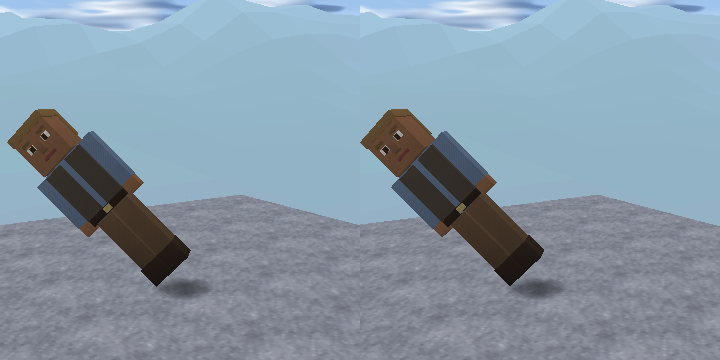
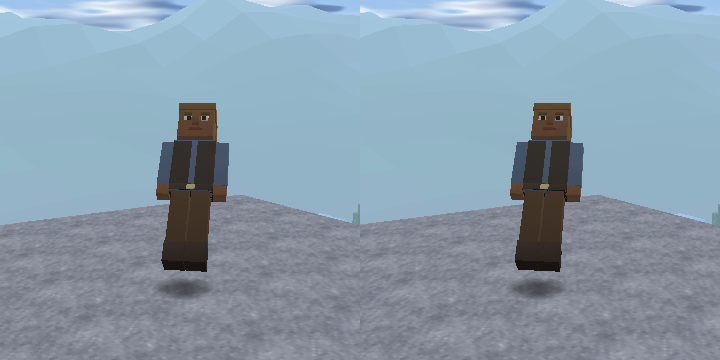
L1 wrap-up: golden before/after sheet, frame-cost table, L1 marked done (#37)
* Golden shots: forest, desert, snowy plains and taiga views at noon

Claude-Session: https://claude.ai/code/session_01YJGoYow1UijYySgLSrD9Pa

* Look upgrade: golden before/after sheet, lavapipe frame-cost table

Claude-Session: https://claude.ai/code/session_01YJGoYow1UijYySgLSrD9Pa

* Look upgrade evidence: the new death-fall portraits replace the old sideways ones

Claude-Session: https://claude.ai/code/session_01YJGoYow1UijYySgLSrD9Pa

---------

diff --git a/quest/src/headless/main.swift b/quest/src/headless/main.swift
@@ -288,6 +288,24 @@ if let path = renderPath, !path.isEmpty, let ctx = vkctx {
                 }
                 world.pendingMobs.removeAll()
             }
+            // Biomes (look upgrade, docs/status/look-upgrade.md): the middle of a forest, a desert, snowy plains and a
+            // taiga near spawn, at noon from a little above the ground, so the sky air, the trees and the ground of
+            // each read build to build. Spiral out in 64-block steps; the centre and four points 32 out must all match.
+            for (biome, yaw) in [("forest", Float(0.6)), ("desert", Float(2.2)), ("snowy_plains", Float(-0.9)), ("taiga", Float(3.6))] {
+                var x = 0, z = 0, dx = 0, dz = -1, found: V3?
+                for _ in 0..<6000 {
+                    let wx = Int(spawn.x) + x * 64, wz = Int(spawn.z) + z * 64
+                    if [(0, 0), (32, 0), (-32, 0), (0, 32), (0, -32)].allSatisfy({ world.gen.column(wx + $0.0, wz + $0.1).biome.name == biome }) {
+                        found = V3(Float(wx) + 0.5, 0, Float(wz) + 0.5); break
+                    }
+                    if x == z || (x < 0 && x == -z) || (x > 0 && x == 1 - z) { (dx, dz) = (-dz, dx) }
+                    x += dx; z += dz
+                }
+                guard var p = found else { print("golden: no \(biome) near spawn (biome_\(biome) skipped)"); continue }
+                _ = world.loadSync(center: p, radius: 2)
+                p.y = Float(world.topY(Int(floorf(p.x)), Int(floorf(p.z))) + 1) + 3
+                shots.append(("biome_\(biome)", p, 0.24, yaw, -0.12, false))
+            }
             // Boreal Station: the nearest one (BorealStation.views: yard from the air, the gate, a corridor, the hall, the stairs).
             if let s = world.gen.structures?.nearest(BorealStation.kind, x: Int(spawn.x), z: Int(spawn.z), maxRegions: 6) {
                 _ = world.loadSync(center: V3(Float(s.anchor.x), Float(s.anchor.y), Float(s.anchor.z - 32)), radius: 4)

diff --git a/docs/status/look-upgrade.md b/docs/status/look-upgrade.md
@@ -186,3 +186,40 @@ rocks it back, rest breathes (about 1 px); a dead cow slumps down; a killed zomb
 vertices, then goes in a puff and is gone; armour stands and boats keep still. Portraits: `--mob-shots DIR --mob-kinds
 zombie,cow,villager,sheep` adds `look` (head turned) and `fall` (mid-fall) shots: docs/status/evidence/look-upgrade/
 mob_{zombie,cow,villager,sheep}_{look,fall}.png.
+
+## General: golden shots and frame cost, before and after
+
+`questcheck --render X --render-only --golden DIR` now also stages three biomes at noon (the middle of a forest, a
+desert and a taiga near spawn; snowy plains when one is within about 2.5 km, none on the test seed). The "before" set is
+the same harness change cherry-picked onto the commit before the sky PR (#26), so both sides show identical views.
+Sheet: [golden_before_after.png](evidence/look-upgrade/golden_before_after.png) (spawn, dusk, night, rain, aerial,
+forest, desert, taiga, town; left eye, 32 px textures).
+
+Frame cost on lavapipe (a CPU rasteriser, so relative only; the headset numbers are lane M's device check):
+
+| shot | quads before | quads after | lavapipe ms before | after |
+|---|---|---|---|---|
+| spawn | 78 721 | 78 335 | 109 | 74 |
+| dusk | 34 771 | 34 771 | 88 | 57 |
+| night | 60 791 | 60 481 | 76 | 83 |
+| rain | 64 691 | 64 305 | 79 | 83 |
+| aerial | 43 256 | 43 336 | 80 | 70 |
+| forest | 89 577 | 91 123 | 89 | 86 |
+| desert | 41 285 | 41 392 | 55 | 56 |
+| taiga | 93 551 | 90 014 | 81 | 74 |
+| town | 56 811 | 56 739 | 119 | 105 |
+| capital city | 85 852 | 85 852 | 136 | 139 |
+| Boreal station | 180 540 | 177 603 | 165 | 154 |
+
+Geometry stays within 2 % (the new tree shapes trade a few logs for fuller crowns; the leaf fix is texture only), and
+lavapipe's frame times are within its own run-to-run noise (±15 ms on the same view). The cloud pass costs about 5 ms
+of a sky-filled 320x320 lavapipe frame (SkyTest prints it each run). No regression is measurable here; the headset
+frame-rate proof (docs/status device checklist) stays with lane M.
+
+What the sheet shows: real cloud decks at noon, warm sunset cloud undersides at dusk, dim cloud shapes and stars at
+night, a closed dark deck in rain; fuller tree crowns at spawn and in the forest (the old 32 px leaves were 11 %
+covered speckle).
+
+Wide-leeway improvements made along the way: the leaf-canopy coverage fix (every leaf texture, all resolutions);
+the tree soil tests run before any tree is built (removed an order-dependent half-tree case); the mob layers'
+head glances use their own per-mob hash (they no longer shift the gameplay RNG).

diff --git a/docs/roadmap/backlog.md b/docs/roadmap/backlog.md
@@ -79,7 +79,7 @@ M3. Device feel for the lanes above: flying, crawler, frigate radar and VR melee
 ## LANE C (optional third cloud thread): looks, redstone, polish
 Moved from the Mac queue on Oct 10 21:52 (Quest is the product; judge on QuestSim, Mac renderer only where shared code forces it).
 
-L1. Look upgrade. CLAIMED: Lane C thread, 2026-10-11 (sky first, then creeper replacement, trees, mob animation; one PR each).
+L1. Look upgrade. [DONE: Lane C thread, 2026-10-11, PRs #26 (sky), #29 (Powderwight), #34 (trees), #36 (mob animation), and the golden before/after PR; docs/status/look-upgrade.md. Headset fps proof stays on lane M's device checklist.]
 LOOK UPGRADE (not texture style - that waits for Remington's pick): 1) a realistic sky with real-looking clouds (cheap: a few layers/billboards or a 2D cloud texture scrolled, no expensive volumetrics on Quest). 2) Redesign mob and animal models so they stop looking fake/cheap: better proportions, silhouettes, animation; 3) replace the creeper with an original mob that fills its role (keep save compatibility). 4) Tree shapes: more natural, varied silhouettes. Keep compute flat or lower. Blocksmith rules: branch claude/quest-port (shared gameplay also to claude/blocksmith-playtest); read docs/status/quest-port.md first; his saved world must keep loading (backup + migration test). Commit after each item. Verify with ./build.sh fast and --questbugs/QuestSim checks (judge downscaled screenshots yourself). Ship: push, ONE blocking wait per Quest CI run, confirm the APK on quest-dist, install if adb shows the Quest, add notes to quest-port.md. Bar: store quality. Remington gives you wide leeway: if you see anything else that would make the game better without costing more compute, do it.
 
 EXPANDED OBJECTIVES (overseer, 10-10 14:45; meet these as well as the items above):
@@ -91,7 +91,7 @@ GENERAL: golden screenshot set before and after (day, night, rain, 3 biomes); fp
 
 NOTE (10-10 21:26): Quest renderer first. Do the sky, mobs, creeper replacement and trees in shared code + the Quest renderer; touch the Mac Metal renderer only where shared code forces it.
 
-L2. Redstone.
+L2. Redstone. CLAIMED: Lane C thread, 2026-10-11 (the Sparkstone Workshop world).
 REDSTONE: Build a redstone test world with standard circuits (clocks, T flip-flops, piston doors, item sorters, observers, comparator subtraction) and make every one behave like the genre reference; automate the check.
 
 L3. Oct 10 AM playtest flesh-out list (skip towns items; lane B owns them).
